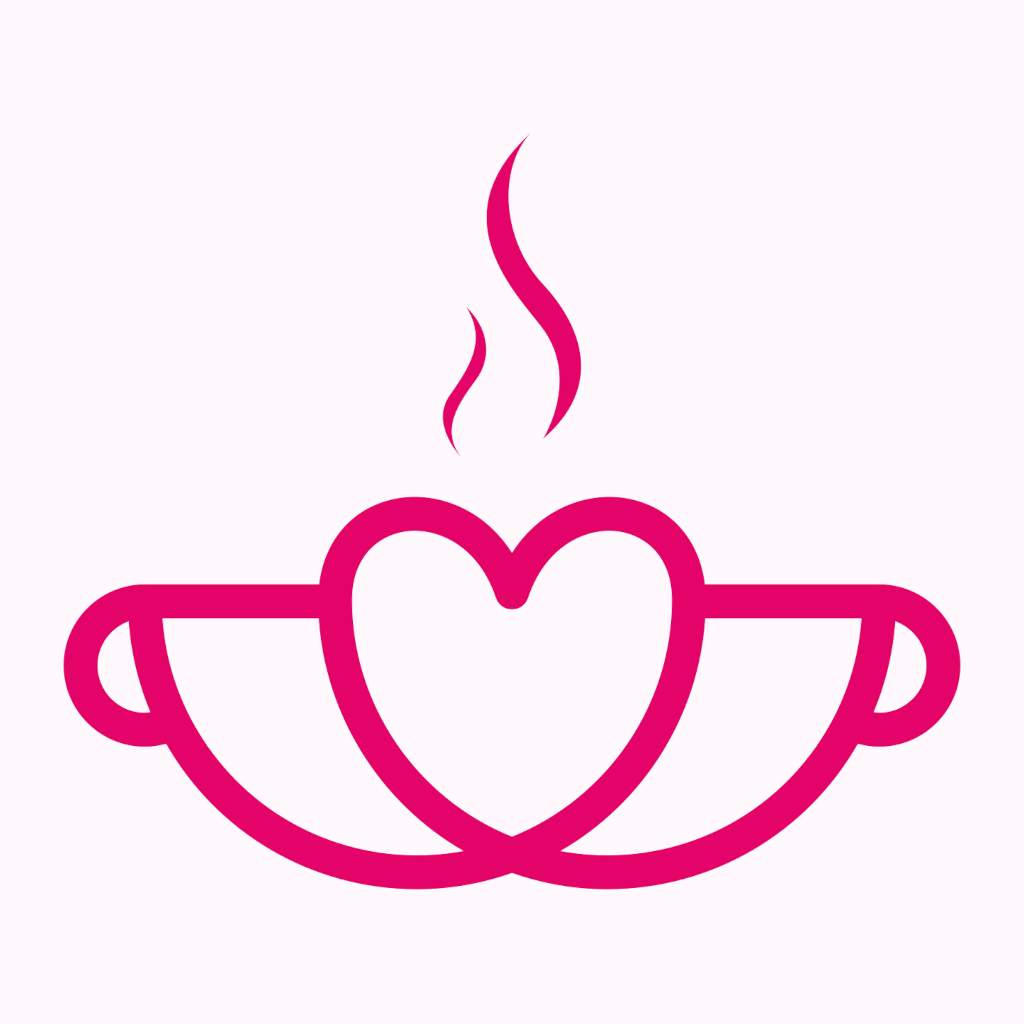
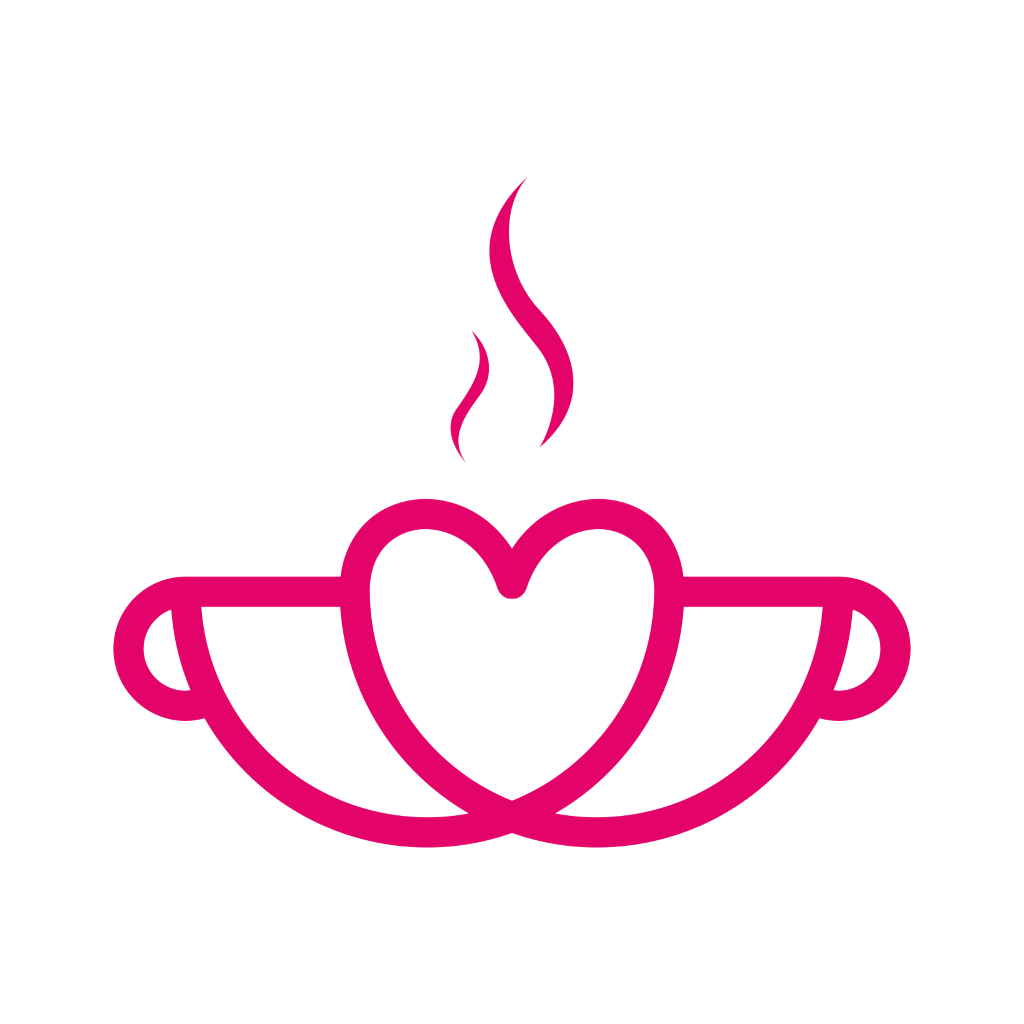
Config changes

diff --git a/api/src/core/config.ts b/api/src/core/config.ts
@@ -5,10 +5,6 @@
  * (only "tech" settings required to proper app working)
  */
 
-import { merge } from 'lodash';
-
-import env from '../env';
-
 type TConfig = {
   app: {
     port: string;
@@ -41,7 +37,7 @@ type TConfig = {
     };
   };
   photo: {
-    compressionThreshold: number;
+    compressionThreshold: number; // files bigger than this will be compressed before saving
     image: {
       url: (photoId: string) => string;
       quality: number;
@@ -54,23 +50,57 @@ type TConfig = {
   salt: string; // this CANNOT be changed in the future!
 };
 
-const config: TConfig = merge(
-  {
-    app: {
-      port: process.env.PORT || '3000',
-      maxBodySize: 5,
-    },
-    photo: {
-      compressionThreshold: 307200, // 300 kB => files bigger than this will be compressed before saving
-      image: {
-        quality: 90,
-      },
-      thumbnail: {
-        quality: 75,
-      },
+const config: TConfig = {
+  app: {
+    port: getEnvValue('APP_PORT'),
+    maxBodySize: 5,
+  },
+  db: {
+    name: getEnvValue('DB_NAME'),
+    username: getEnvValue('DB_USERNAME'),
+    password: getEnvValue('DB_PASSWORD'),
+    host: getEnvValue('DB_HOST'),
+  },
+  mail: {
+    sender: getEnvValue('MAIL_SENDER'),
+    transport: {
+      host: getEnvValue('MAIL_TRANSPORT_HOST'),
+      port: Number(getEnvValue('MAIL_TRANSPORT_PORT')),
+      username: getEnvValue('MAIL_TRANSPORT_USERNAME'),
+      password: getEnvValue('MAIL_TRANSPORT_PASSWORD'),
     },
   },
-  env
-);
+  session: {
+    secret: getEnvValue('SESSION_SECRET'),
+  },
+  apis: {
+    google: {
+      key: getEnvValue('API_GOOGLE_KEY'),
+    },
+    tomtom: {
+      key: getEnvValue('API_TOMTOM_KEY'),
+    },
+  },
+  photo: {
+    compressionThreshold: 307200, // 300 kB
+    image: {
+      url: (photoId: string) => `${getEnvValue('PHOTO_HOST')}/photos/${photoId}/image`,
+      quality: 90,
+    },
+    thumbnail: {
+      url: (photoId: string) => `${getEnvValue('PHOTO_HOST')}/photos/${photoId}/thumbnail`,
+      quality: 75,
+    },
+  },
+  salt: getEnvValue('SALT'),
+};
+
+function getEnvValue(envKey: string): string {
+  const envValue = process.env[envKey];
+  if (envValue === undefined) {
+    throw new Error(`Environmental variable ${envKey} is missing.`);
+  }
+  return envValue;
+}
 
 export default config;

diff --git a/app/app.config.js b/app/app.config.js
@@ -24,6 +24,10 @@ const appConfig = {
           apiKey: process.env.GOOGLE_MAPS_KEY,
         },
       },
+      adaptiveIcon: {
+        foregroundImage: './assets/adaptive-icon.png',
+        backgroundColor: '#fff8fc'
+      },
     },
     ios: {
       supportsTablet: true,
